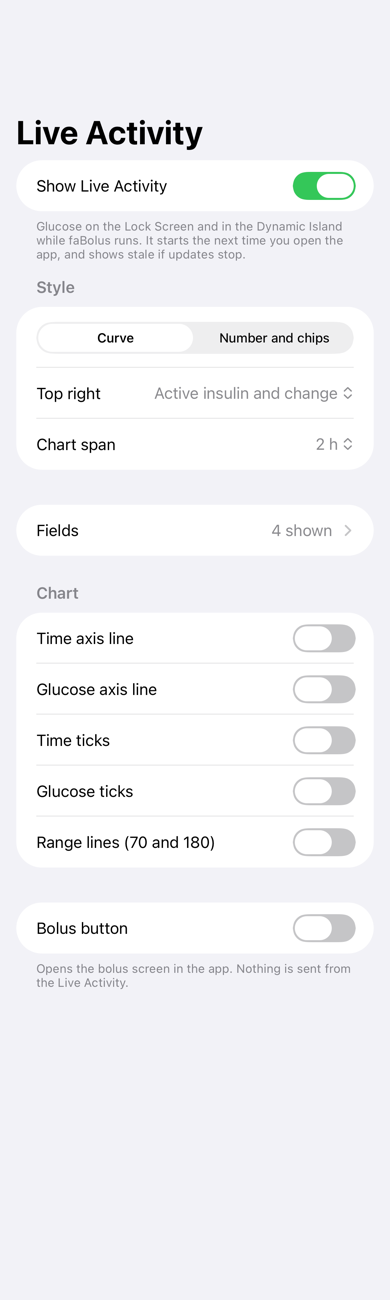
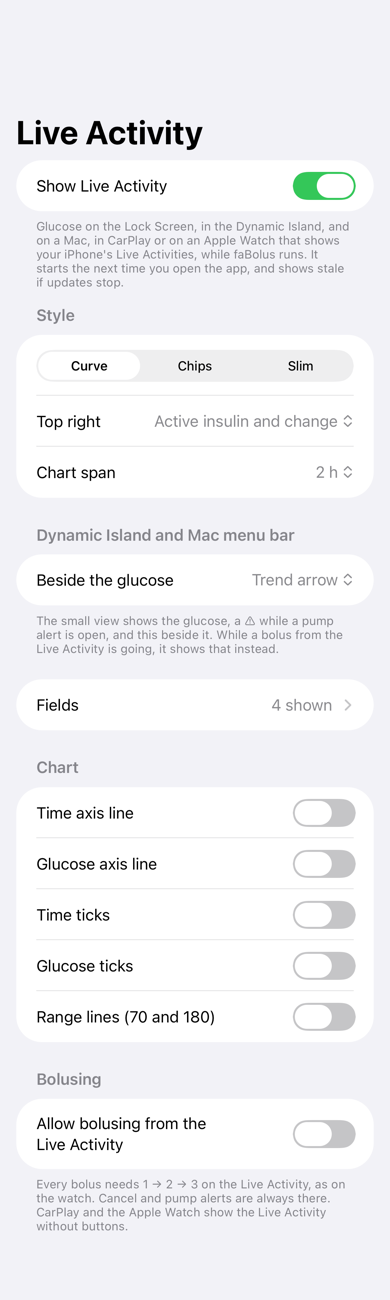
docs: the Live Activity's bolus, alerts and settings, and its design
The design (docs/plans/live-activity-bolus.md): which surface it is, each screen, how each confirmation
is answered, failures and unknown outcomes, what iOS allows on the Mac, in CarPlay and on the Watch, and
what to check on a device before real use.

diff --git a/docs/plans/live-activity-bolus.md b/docs/plans/live-activity-bolus.md
@@ -1,0 +1,231 @@
+# Live Activity: bolus, alerts and the watch's feature set
+
+Status: proposal, not built. A dose path: it lands only with the owner's OK.
+
+## Goal
+
+Make the glucose Live Activity do what the Garmin watch does, on the Lock Screen, in the Dynamic Island, in
+the Mac menu bar (iPhone Live Activities on macOS), and as far as Apple allows in CarPlay and the Apple
+Watch Smart Stack:
+
+- bolus from it, with the watch's flow: the amount chosen with − and +, a review, the 1 → 2 → 3 confirm,
+  the phone's confirmations answered there, and the result with Cancel;
+- show the pump alerts and clear one on the pump, under the rules the watch follows;
+- cancel a bolus from any source;
+- fill the remaining gaps with the watch's status and chart screens.
+
+The current Bolus pill, which only opens the app, goes away.
+
+## What iOS allows (Apple's docs, checked 2026-11-13)
+
+| Question | Answer | Source |
+|---|---|---|
+| Where a button's intent runs | A `LiveActivityIntent` runs in the app's process; iOS launches the app in the background if it isn't running. | [LiveActivityIntent](https://developer.apple.com/documentation/appintents/liveactivityintent), [Adding interactivity](https://developer.apple.com/documentation/widgetkit/adding-interactivity-to-widgets-and-live-activities) |
+| A tap while the phone is locked | Contradictory docs. The interactivity article says buttons do nothing on a locked device until the person unlocks it; the `authenticationPolicy` page says `.alwaysAllowed` runs while locked. `.requiresAuthentication` accepts an unlocked paired device (a Watch on the wrist); `.requiresLocalDeviceAuthentication` needs the iPhone itself unlocked. | [authenticationPolicy](https://developer.apple.com/documentation/appintents/appintent/authenticationpolicy) |
+| A confirmation dialog from a button | Not documented for widgets or Live Activities; reports say `requestConfirmation` is skipped silently there. So every confirmation is a screen of the Live Activity's own, never a system dialog. | [forum thread](https://developer.apple.com/forums/thread/732037) |
+| Mac menu bar | Compact views in the menu bar; clicking shows the Lock Screen view. Buttons work: the tap goes to the iPhone, which runs the intent, with extra latency. A tap elsewhere opens iPhone Mirroring. | [Custom views](https://developer.apple.com/documentation/activitykit/creating-custom-views-for-live-activities), [WWDC25 278](https://developer.apple.com/videos/play/wwdc2025/278/) |
+| CarPlay | Buttons do nothing in CarPlay, by design (driving). It shows the compact views, or the `.small` layout when declared. | [Displaying live data](https://developer.apple.com/documentation/activitykit/displaying-live-data-with-live-activities) |
+| Apple Watch Smart Stack | Same `.small` family as CarPlay; buttons may work there. No API tells the Watch and CarPlay apart. | [activityFamily](https://developer.apple.com/documentation/widgetkit/activityfamily) |
+| Pending state | `invalidatableContent()` marks a control's view as pending until the next update. | [invalidatableContent](https://developer.apple.com/documentation/swiftui/view/invalidatablecontent(_:)) |
+| Size | 4 KB of content per update. | [Displaying live data](https://developer.apple.com/documentation/activitykit/displaying-live-data-with-live-activities) |
+
+Consequences for the design:
+
+- Every step is a button whose intent the app checks against the state it holds. The Live Activity's view
+  is only a picture of that state, which may be out of date, so each tap names the screen it was drawn
+  from and a tap from an older screen is ignored.
+- The `.small` family (CarPlay and the Watch) shows status and an ongoing bolus's progress, with no buttons.
+  Bolusing and clearing are on the Lock Screen, the Dynamic Island and the Mac.
+- How a locked iPhone behaves is checked on a device with a passcode before anyone relies on it. The
+  simulator can't show it.
+
+## Which surface it is
+
+A new `AccessPolicy.Surface.liveActivity`, a remote:
+
+- `remotesReadOnly` makes it read-only, as it does the watch, and so does `phoneReadOnly`: it is drawn on
+  the phone's own Lock Screen, so neither switch leaves it open.
+- Its own opt-in, `liveActivityBolusEnabled`, off by default, turned on in the Live Activity settings
+  behind the same "Allow bolusing" confirm as the watch's.
+- Its doses go through `DoseComposer.composeRemote`, as the watch's do: fresh calculator inputs or a
+  refusal, the remote size limit, the remote freshness and supersede checks, and the confirmations as a
+  refusal the Live Activity answers and sends again.
+- Its ledger peer is `liveActivity`, so its entries never mix with the phone's or the watch's.
+
+Why not the phone's surface: the buttons are reached from the Lock Screen and from other devices, away from
+the app's screens and the phone's own prompts. The phone's rules (no remote limit, dialogs for each
+question) assume someone is looking at the app.
+
+The path is unchanged below the composer: the composed dose goes to `AppModel.deliver`, which is the
+phone's path into the durable ledger and `PumpSession`, and on to TandemKit's write grant. No new delivery
+path, no new pump message, no wire change for the watch.
+
+## The flow
+
+The flow's state lives in the app, in a `LiveActivityFlow` (PhoneApp), and is drawn by the Live Activity
+from a small `LiveActivityPanel` value carried in each update. A new screen gets a new ID; every button
+carries the ID of the screen it was on.
+
+### Idle (the card as today, plus a bottom row)
+
+- **Bolus** when the Live Activity may bolus now.
+- The reason, greyed, when it can't, in the watch's short words: "Pump not connected", "Bolus in progress",
+  "Check last bolus", "Cartridge not ready", "Read-only", "Delivery locked".
+- **Cancel** (red) whenever the pump has a bolus going, from any source, as on the watch's main screen.
+- No button at all while bolusing from the Live Activity is off.
+- The top pump alert, most severe first, with "+2 more"; tapping it opens the alert screen.
+
+### Entry (the watch's entry screen)
+
+- A mode chip, Units or Carbs ("Food" with carbs off on the pump); tapping it switches and starts from 0.
+- The value between − and +. The fine step is the phone's increment (0.05 U, 5 g by default). A coarse
+  ±1 U / ±10 g pair sits outside, because each tap is a round trip to the app and the watch's buttons can
+  be held. The value stops at 0 and at the lower of the remote limit and the pump's max bolus (25 U when
+  neither is known, which isn't a dose limit); carbs stop at 200 g.
+- Carbs mode shows the calculator's dose and the watch's message line: "Correction asked next", "No CGM:
+  carbs only", "Stale CGM: carbs only", "Waiting for pump settings", the CGM caution, and the calculator's
+  low-glucose and IOB messages.
+- **Review**, enabled once there is a dose; **✕** closes.
+
+### Correction question (carbs mode, as the watch asks it)
+
+From a current reading of 70 mg/dL or more, when correcting changes the dose: "BG 180 mg/dL, above target
+110: add a correction?", with two buttons naming the whole dose each gives ("Corrected 2.35 U", "Carbs only
+2.00 U"). Below target it asks whether to reduce. Carbs only is sent as `declineCorrection`.
+
+### Stale reading question (carbs mode, as the watch asks it)
+
+With no current reading but one the composer may include (no older than the includable limit, inside
+20–600 mg/dL, not one the pump cautions against), and including it changes the dose: "BG 142 mg/dL, stale
+CGM, 9 min ago: include it?", with "Include 2.35 U" and "Carbs only 2.00 U". Include sends
+`includeStaleGlucose` with the reading's value, which the composer uses only if it is still the reading it
+would include. Otherwise the dose is carbs only, and the screen says "Stale CGM: carbs only" or "No CGM:
+carbs only". Nothing ever fills a stale reading in by itself.
+
+### Review and the 1 → 2 → 3 confirm
+
+- The dose, large, and for a calculator dose the watch's split line ("2.00 food + 0.35 correction").
+- Three circles, 1, 2 and 3, tapped in order; each turns green. A tap out of order starts the count again.
+  The third sends.
+- The review expires after 90 s (the composer refuses a request over 120 s old), with a countdown. An
+  expired review says "Expired: start over".
+- The request's time is when the review appeared, so a bolus from anywhere after that refuses it.
+
+### The phone's confirmations
+
+When the composer answers that the dose needs confirming (too many boluses, the max hourly bolus, low
+insulin), the Live Activity shows "Confirm", the phone's text and **Go on: 2.35 U**. Go on doesn't send: it
+returns to the 1 → 2 → 3 confirm with that confirmation recorded, and the third tap sends a new request
+that carries it. Every confirmation the phone or the watch asks is asked here.
+
+### Result
+
+The watch's headlines: "Sending…", "Starting…", "Delivering…", "Delivered" (green), "Stopped" (orange),
+"Pump refused" (red), "Not delivered" (red), "Outcome unknown" (yellow), with "2.35 U delivered" or the
+phone's reason under it.
+
+- **Cancel** while it may still be delivering; "Cancelling" after it; after 5 s with no answer, "No answer
+  yet. To stop it now, use the pump." A cancel that the pump doesn't confirm is tried again, as the watch
+  host does.
+- **Done** once settled. A delivered result clears itself after 60 s.
+- An unknown outcome says "Check the pump before dosing again." The ledger then blocks every surface until
+  pump history settles it or the user confirms on the pump; the idle row shows "Check last bolus".
+
+### Failures
+
+- Refused by the composer or the session: "Not delivered" with the reason, nothing sent. Nothing is retried
+  by itself.
+- A tap from an older screen, or one that reaches a relaunched app that never drew it: ignored, and the Live
+  Activity is redrawn from the app's state, with "That screen had expired. Nothing was sent." where a send
+  was asked.
+- The app killed mid-delivery: the ledger already records the request before anything is sent, so a
+  relaunch finds it in flight or unknown and blocks; the Live Activity shows that from the ledger.
+
+## Pump alerts
+
+From `AlertSnapshot.active`, as the watch gets them: most severe first, red for critical, amber otherwise.
+
+- The idle row shows the top one; the alert screen shows one at a time, title and body, with **Next** when
+  there are more.
+- **Clear on pump** appears only where the watch offers it: the session says it can be cleared remotely,
+  and it isn't a malfunction. It goes through `PumpSession.dismiss`, the same call the watch host makes. The
+  watch's notes for the result: "Clearing…", "Pump didn't clear it", "Clear it on the pump", "No answer from
+  pump". A cleared alert is hidden for 60 s, until the pump's list catches up.
+- The Live Activity doesn't alert by itself: the phone's notifications already do.
+
+## The rest of the watch's features
+
+- **Last bolus** becomes a Live Activity field, which the watch's details show.
+- **Alerts count** shows on the idle row.
+- **Chart span** cycles 1 → 2 → 3 → 4 → 6 h from a small chart-icon button on the card's bottom row, as
+  the watch's chart cycles its ranges. The Slim style has no chart, so no button.
+- The rest is already there (glucose colours and staleness, IOB, reservoir, battery, basal, Control-IQ,
+  last auto-correction, connection, the curve), or is the lock screen's own (the clock). The calculator
+  settings rows (carb ratio, ISF, target, max bolus) stay in the app.
+- **`.small`** (CarPlay and the Watch): glucose and trend, the top alert's title, and an ongoing bolus's
+  headline. No buttons.
+
+## The Mac menu bar, the Dynamic Island and the Slim style
+
+- **The pill.** The Mac's menu bar shows the compact views side by side, the same ones as the Dynamic
+  Island (iOS can't tell the two apart). The leading view is the glucose in its range colour, with ⚠ while
+  a pump alert is open. The trailing one is the user's choice: the trend arrow (the default), the 30-minute
+  change, or the active insulin. While a Live Activity bolus is going or has just finished, it shows that
+  instead, an icon for where it stands before a few words: a drop and "2.00 U" while it delivers, a
+  check and "0.95 U" once delivered, a warning and "Check" for an unknown outcome. Stale values grey and drop the arrow, as on the card.
+- **Hiding the iPhone's card while keeping the Mac's.** Not possible: the Lock Screen card and the one the
+  Mac opens are the same `.medium` view, and CarPlay and the Watch use the separate `.small` one. What is
+  offered instead is a **Slim** style, one short row (glucose, age, two fields, the bolus and alert row),
+  on both. A bolus or alert screen still opens full size. iOS's own switch (Settings → Face ID & Passcode →
+  Allow Access When Locked → Live Activities) hides Live Activities on the locked Lock Screen; whether the
+  Mac still shows them then is to be checked on a device.
+
+## Notifications
+
+The Live Activity never alerts by itself: its updates carry no alert configuration, so a pump alert sounds
+once, as the phone's notification. Clear on pump goes through the same session call as the app, so the
+alert pipeline withdraws that notification once the pump's list no longer has the alert. A Live Activity
+bolus gets the phone's bolus-result notifications like any other bolus (the owner's choice, 2026-11-13).
+
+## Buttons and authentication
+
+Two intent types, compiled into both the app and the widget extension (an intent type in a Swift package
+needs extra registration for the widget to find it):
+
+- `LiveActivityActionIntent`, `.requiresAuthentication`: every bolus step and Clear on pump.
+- `LiveActivityStopIntent`, `.alwaysAllowed`: Cancel bolus, ✕, Done, Next alert, the chart span. None of
+  these sends insulin; Cancel is never gated anywhere in the app.
+
+Each carries one encoded action and the ID of the screen it was on. `perform()` hands it to the app's
+handler and returns when the step is done, through to the session's answer for a send.
+
+## Tests
+
+- `AccessPolicy`: the Live Activity is denied while off or read-only, allowed when on, and the watch's
+  opt-in doesn't open it.
+- The flow, against the scripted pump in `PhoneAppTests`:
+  - a units dose through 1 → 2 → 3 is delivered once, through the ledger;
+  - taps out of order, from an older screen, after expiry, or into a relaunched app send nothing;
+  - carbs mode asks the correction question, and Carbs only sends no correction;
+  - a dose changed by the pump's fresh read is refused;
+  - low insulin asks to confirm, and Go on then 1 → 2 → 3 delivers;
+  - Cancel while delivering stops it, and an unknown outcome blocks;
+  - the remote size limit applies, and disabled or read-only refuse;
+  - Clear on pump only for an alert the watch could clear.
+- The content with a bolus screen and three alerts stays under 4 KB.
+- Snapshots, light and dark, on iPhone 17 at iOS 27.2: idle (Bolus, blocked, Cancel, an alert), each
+  entry, question, review (0, 1, 2 taps), confirm, each result, the alert screen, `.small`, and the Live
+  Activity settings.
+
+## To check on a device before real use
+
+These can't be shown on a simulator: a tap on a locked iPhone with a passcode, from the Mac menu bar, and
+from the Watch Smart Stack.
+
+The app relies on iOS's `.requiresAuthentication` to keep a locked iPhone's Lock Screen from bolusing; it
+adds no lock check of its own, so a tap from an unlocked Mac or Watch can bolus while the iPhone is locked
+(the owner's choice, 2026-11-13). No device report online confirms how iOS treats that policy for Live
+Activity buttons: a default-policy button is reported to run on a locked Lock Screen, and an interactive
+widget to ask for an unlock first. Before real use, tap each bolus step on a locked iPhone (after first
+unlock, and before it after a restart) and confirm iOS asks for Face ID or the passcode before anything
+happens.

diff --git a/docs/remotes/iphone-widgets.md b/docs/remotes/iphone-widgets.md
@@ -1,7 +1,8 @@
 # Widgets and Live Activity
 
-Widgets and the Live Activity show what faBolus last published, with its age. They can't reach the pump
-and can't bolus: a tap opens the app.
+Widgets and the Live Activity show what faBolus last published, with its age. The widgets can't reach the
+pump: a tap opens the app. The Live Activity can also bolus, cancel a bolus and clear a pump alert, as the
+watch can, if you allow it.
 
 ## Widgets
 
@@ -19,7 +20,8 @@ publishing for about 6 minutes, they show that no pump is connected.
 
 ## Live Activity
 
-Glucose on the Lock Screen and in the Dynamic Island while faBolus runs.
+Glucose on the Lock Screen and in the Dynamic Island while faBolus runs, and wherever iOS shows your
+iPhone's Live Activities: the Mac's menu bar, CarPlay and the Apple Watch Smart Stack.
 
 <figure class="cx2-shot phone" markdown="span">
   ![Live Activity settings](../assets/screenshots/live-activity-settings.png)
@@ -28,14 +30,45 @@ Glucose on the Lock Screen and in the Dynamic Island while faBolus runs.
 
 Turn it on in **Settings → Live Activity**. It starts the next time you open the app. There you choose:
 
-- **Style**: **Curve** (a full-width glucose curve, with a value of your choice in the top right) or
-  **Number and chips**.
-- **Chart span**: 1 to 6 hours.
+- **Style**: **Curve** (a full-width glucose curve, with a value of your choice in the top right),
+  **Chips** (the number with a grid of values), or **Slim** (one short row). The Mac shows the same card
+  when you click its menu-bar pill.
+- **Chart span**: 1 to 6 hours. The card's chart button cycles it too.
+- **Beside the glucose**: what the Dynamic Island and the Mac's menu-bar pill show next to the glucose:
+  the trend arrow, the 30-minute change or active insulin. A ⚠ shows while a pump alert is open, and a
+  bolus from the Live Activity shows its progress there instead.
 - **Fields**: what it shows, in order, from glucose, active insulin, reservoir, battery, basal,
-  Control-IQ, last auto-correction, pump connection (shown when it's down), 30-minute change and time in
-  range. The Dynamic Island shows the first ones that fit.
+  Control-IQ, last auto-correction, pump connection (shown when it's down), 30-minute change, time in
+  range and last bolus. The Dynamic Island shows the first ones that fit.
 - **Chart**: axis lines, ticks, and the 70 and 180 mg/dL range lines.
-- **Bolus button**: opens the app's Bolus screen. Nothing is sent from the Live Activity.
+- **Allow bolusing from the Live Activity**: off until you turn it on. Read-only (for the phone or for
+  remotes) turns it off, and the remote bolus limit applies.
+
+### Bolusing from the Live Activity
+
+The steps are the watch's:
+
+1. Tap **Bolus**. iOS asks you to unlock first.
+2. Choose **Units** or **Carbs** with the mode button, and set the amount with − and + (by the phone's
+   increment) or −1/+1 U, −10/+10 g.
+3. Tap **Review**. In carbs mode, a current glucose that changes the dose asks whether to correct, and a
+   stale one the calculator may still use asks whether to include it. Each answer names its whole dose.
+4. Tap **1**, **2** and **3** in order. A review expires after 90 seconds.
+5. If the pump needs a confirmation (too many boluses, the max hourly bolus, low insulin), the Live
+   Activity says so: **Go on** takes you back to 1, 2, 3.
+6. The result follows: delivering with **Cancel**, then delivered, stopped, not delivered or outcome
+   unknown. An unknown outcome blocks new boluses until it's settled, as everywhere else.
+
+**Cancel** shows on the card whenever the pump has a bolus going, from any source, and needs no unlock.
+CarPlay and the Apple Watch show the Live Activity without buttons.
+
+### Pump alerts
+
+The card shows the most severe open pump alert and how many there are. Tap it to read them one at a time.
+**Clear on pump** appears for an alert the watch could clear. The Live Activity never alerts by itself:
+the app's notification is the alert.
+
+### Updates
 
 It updates with each new glucose, and with other values at most once a minute. If updates stop, for
 example because faBolus was closed, it greys out as soon as its first value is too old, and old values

diff --git a/CHANGELOG.md b/CHANGELOG.md
@@ -8,6 +8,21 @@ experimental and demonstration use.
 
 ## [Unreleased]
 
+### Added
+
+- Bolus from the Live Activity, off until allowed in Settings → Live Activity: the watch's steps (the
+  amount with − and +, the calculator's questions, a review, 1 → 2 → 3, the pump's confirmations, the
+  result with Cancel), checked by the phone as a remote's request. iOS asks for an unlock first. Works on
+  the Lock Screen, in the Dynamic Island and from the Mac's menu bar; CarPlay and the Apple Watch show it
+  without buttons.
+- The Live Activity shows the open pump alerts and clears one on the pump where the watch could, cancels a
+  bolus from any source, cycles its chart span, and has a Last bolus field, a Slim style, and a choice of
+  what the Dynamic Island and the Mac's menu bar show beside the glucose.
+
+### Removed
+
+- The Live Activity's Bolus button that only opened the app.
+
 ## [0.4.0] — 2026-11-01
 
 A new app, rebuilt from the ground up. It keeps the earlier app's bundle ID but none of its data. The

diff --git a/docs/architecture.md b/docs/architecture.md
@@ -19,8 +19,9 @@ flowchart LR
 - **The watch is a remote.** It shows what the phone sends it and asks the phone to bolus, cancel or
   clear an alert. The phone checks every request before anything reaches the pump. Garmin's own
   Garmin Connect app carries the messages between the watch and the phone.
-- **Widgets and the Live Activity only show.** They display what the app last published, with its age,
-  and open the app when tapped. None of them can bolus.
+- **Widgets only show.** They display what the app last published, with its age, and open the app when
+  tapped. **The Live Activity is a remote** too, when allowed: its buttons ask the phone to bolus, cancel
+  or clear an alert, and the phone checks every request as it checks the watch's.
 
 ## Where glucose comes from
 

diff --git a/docs/faq.md b/docs/faq.md
@@ -43,7 +43,9 @@
     The Garmin Venu 3S, the one watch the app is built and tested for.
 
 ??? question "Can a widget or the Live Activity bolus?"
-    No. They show glucose and status. The Live Activity's bolus button only opens the app.
+    The widgets can't: they show glucose and status. The Live Activity can, once you allow it in
+    **Settings → Live Activity**, with the watch's steps: the amount, a review, then 1, 2, 3. See
+    [Widgets and Live Activity](remotes/iphone-widgets.md#bolusing-from-the-live-activity).
 
 ??? question "Can I bolus by carbs?"
     Yes, on the phone and the watch. The suggestion uses your pump's carb ratio, correction factor,

diff --git a/docs/glossary.md b/docs/glossary.md
@@ -30,8 +30,8 @@ Plain-language definitions of the terms used in faBolus and these docs.
   pump history settles it or you confirm on the pump.
 - **Stopped**: a bolus that delivered less than asked, for example because it was cancelled.
 - **Read-only**: a switch that stops the phone, or the watch, from bolusing. Cancel still works.
-- **Remote**: something that shows status and asks the phone to act: the Garmin watch. The widgets and
-  Live Activity only show.
+- **Remote**: something that shows status and asks the phone to act: the Garmin watch, and the Live
+  Activity's buttons. The widgets only show.
 
 ## Developer
 
